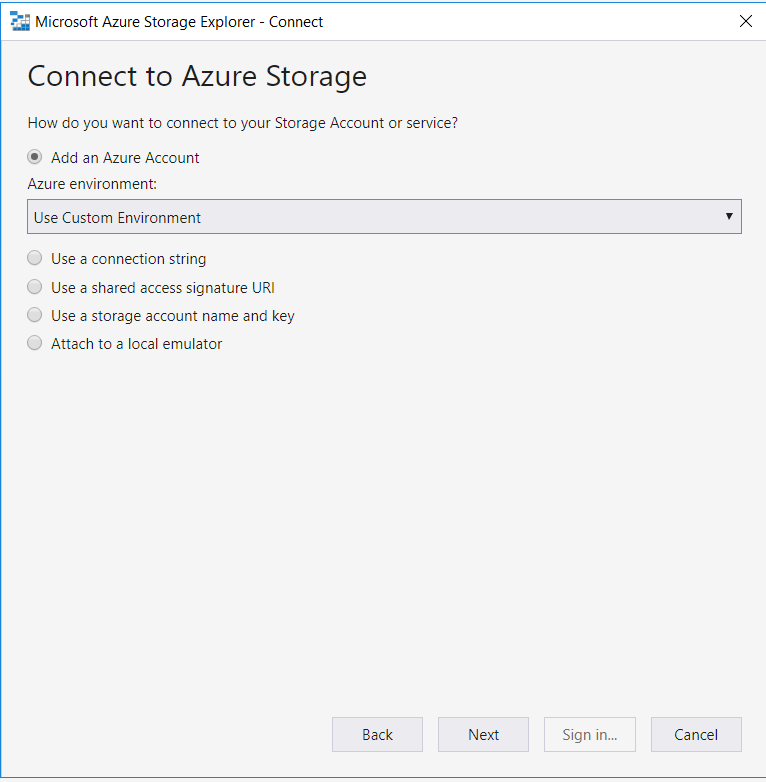
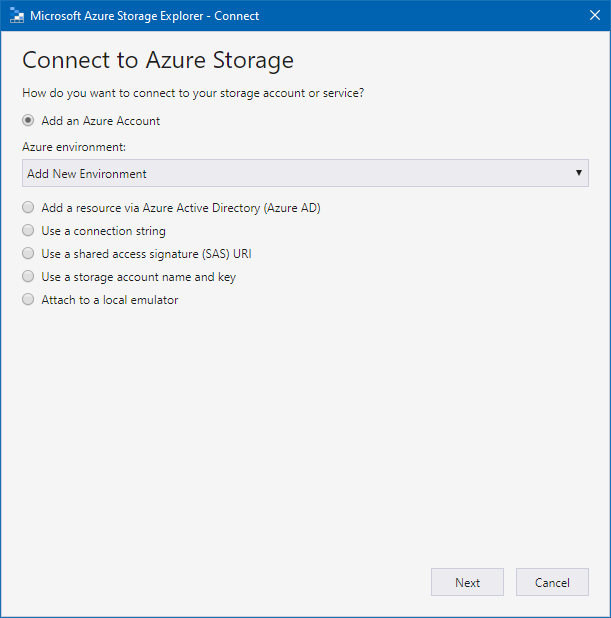
Updated some screenshots.

diff --git a/articles/azure/azs-how-link-storage-explorer.md b/articles/azure/azs-how-link-storage-explorer.md
@@ -42,11 +42,11 @@ If you need to install Azure Storage Explorer, please click [here](https://azure
 
     ![Storage Explorer installation guide 3](images/azs-installation-storage-tool-2.png)
 
-5. Select **Add an Azure Account** \> **Use Custom Environment**.
+5. Select **Add an Azure Account** \> **Add New Environment**, then click **Next**.
 
     ![Storage Explorer installation guide 4](images/azs-installation-storage-tool-3.png)
 
-6. Name the environment **Azure Stack Hub** and use `https://management.frn00006.azure.ukcloud.com` for the **ARM endpoint**.
+6. Name the environment **Azure Stack Hub** and use `https://management.frn00006.azure.ukcloud.com` for the **ARM endpoint**. Click **Next** once both fields have been populated.
 
     ![Storage Explorer installation guide 5](images/azs-installation-storage-tool-4.png)
 
